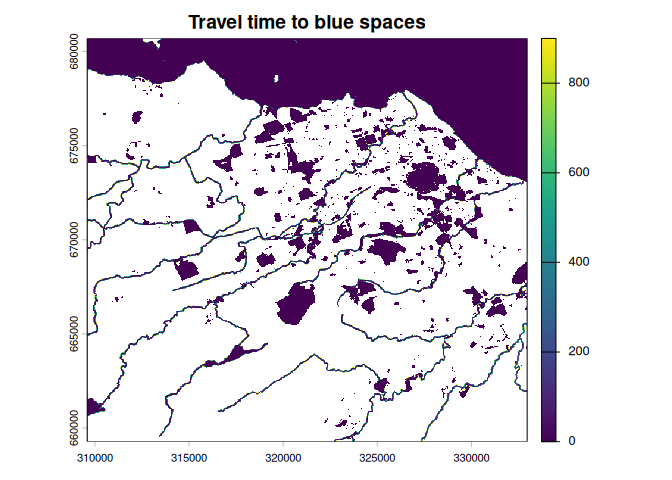
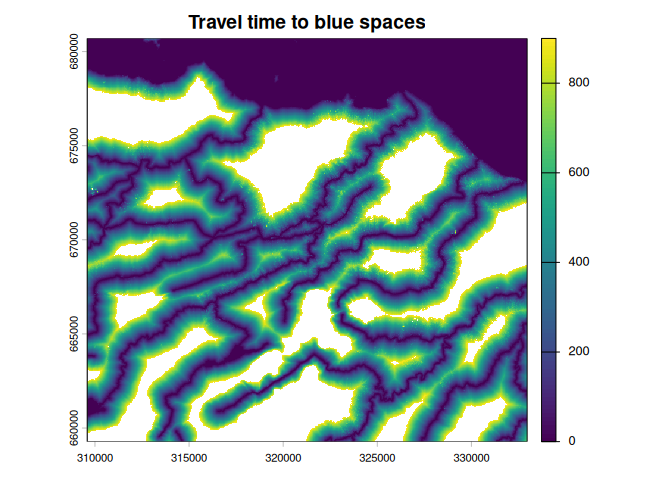
Readme code changes, and adding in amenity functionality and visual

diff --git a/README.md b/README.md
@@ -48,7 +48,7 @@ template <- rast(edinburgh, res = 15)
 dem <- get_dem(edinburgh, template)
 #> Mosaicing & Projecting
 #> Note: Elevation units are in meters.
-osm <- get_osm(system.file("extdata", "edinburgh.shp", package = "travelgrid"))
+osm <- get_osm(system.file("extdata", "edinburgh.shp", package = "travelgrid"), amenity = c("hospital", "clinic"))
 #> The input place was matched with Scotland.
 #> The chosen file was already detected in the download directory. Skip downloading.
 #> Starting with the vectortranslate operations on the input file!
@@ -86,28 +86,48 @@ osm <- get_osm(system.file("extdata", "edinburgh.shp", package = "travelgrid"))
 #> Dimension:     XY
 #> Bounding box:  xmin: -3.490315 ymin: 55.79268 xmax: -3.055897 ymax: 56.02276
 #> Geodetic CRS:  WGS 84
+#> Starting with the vectortranslate operations on the input file!
+#> 0...10...20...30...40...50...60...70...80...90...100 - done.
+#> Finished the vectortranslate operations on the input file!
+#> Reading query `SELECT *
+#>        FROM points
+#>        WHERE other_tags LIKE '%"amenity"=>"hospital"%' OR other_tags LIKE '%"amenity"=>"clinic"%''
+#> from data source `/home/chris/.local/share/R/osmextract/geofabrik_scotland-latest.gpkg' 
+#>   using driver `GPKG'
+#> Simple feature collection with 52 features and 10 fields
+#> Geometry type: POINT
+#> Dimension:     XY
+#> Bounding box:  xmin: -3.319955 ymin: 55.89321 xmax: -3.110969 ymax: 55.98041
+#> Geodetic CRS:  WGS 84
 roads <- osm$network
 buildings <- osm$buildings
+health <- osm$amenity
 ```
 
 ``` r
 plot(dem, main = "Elevation")
-plot(edinburgh, col = NA, border = "red", add = TRUE)
 ```
 
 <img src="man/figures/README-sourcedataplot-1.png" alt="" width="100%" />
 
 ``` r
-plot(roads, main = "Roads")
+plot(edinburgh, col = NA, border = "orange")
 ```
 
 <img src="man/figures/README-sourcedataplot-2.png" alt="" width="100%" />
 
 ``` r
-plot(buildings, main = "Buildings")
+plot(roads, main = "Roads")
 ```
 
 <img src="man/figures/README-sourcedataplot-3.png" alt="" width="100%" />
+
+``` r
+plot(buildings, main = "Buildings")
+plot(health,col = "pink", add = TRUE)
+```
+
+<img src="man/figures/README-sourcedataplot-4.png" alt="" width="100%" />
 
 ## Built environment
 
@@ -154,8 +174,10 @@ it is 2.5km. The landscape is divided into regular squares of
 2.5km<sup>2</sup>, each given a unique *id*.
 
 ``` r
+wd <- tempdir()
 gridsize <- 5000
 grid <- make_grid(edinburgh, gridsize)
+writeVector(grid, filename = paste0(wd, "/grid.shp"), overwrite = TRUE)
 plot(grid, main = "Computation grid")
 plot(edinburgh, add= TRUE)
 ```
@@ -185,6 +207,8 @@ bluespace <- get_target_multisource(bluespace_sources, template)
 greenspace_source <- vect("./inst/extdata/greenspace.shp") # gets os greenspace data
 greenspace <- get_target_onesource(greenspace_source, template)
 
+amenity <- get_target_amenity(osm, template)
+
 plot(bluespace, main = "Blue space")
 ```
 
@@ -206,10 +230,8 @@ adjusted based on the built environment.
 
 ``` r
 
-wd <- tempdir()
-writeVector(grid, paste0(wd, "/grid.shp"), overwrite = TRUE)
-writeRaster(built_environment, paste0(wd, "/be.tif"), overwrite = TRUE)
-writeRaster(dem, paste0(wd, "/dem.tif"), overwrite = TRUE)
+writeRaster(built_environment, filename = paste0(wd, "/be.tif"), overwrite = TRUE)
+writeRaster(dem, filename = paste0(wd, "/dem.tif"), overwrite = TRUE)
 
 friction_grid <- lapply(FUN = get_friction,
                         X = 1:nrow(grid),
@@ -249,36 +271,45 @@ where targets are sparse, and precision for long travel times is
 important, users should define a larger grid size.
 
 ``` r
-
+wd <- tempdir()
+writeRaster(friction_with_buildings, file.path(wd, "frbu.tif"), overwrite = TRUE)
 writeRaster(bluespace, file.path(wd, "bs.tif"), overwrite = TRUE)
-writeRaster(greenspace, file.path(wd, "gs.tif"), overwrite = TRUE)
-writeRaster(friction_with_buildings, file.path(wd, "fb.tif"), overwrite = TRUE)
-list.files(wd)
-#>  [1] "be.tif"                "bs.tif"                "dem.tif"              
-#>  [4] "fb.tif"                "file1c0d911bc7579.tif" "file1c0d913abc43f.tif"
-#>  [7] "file1c0d91cc73b5.tif"  "file1c0d9390529f5.tif" "file1c0d94218c664.tif"
-#> [10] "file1c0d943199fd.tif"  "file1c0d946bf3a1d.tif" "file1c0d957c50ab8.tif"
-#> [13] "file1c0d95dc5dfa7.tif" "file1c0d9676e0a54.tif" "file1c0d96cad028e.tif"
-#> [16] "friction.tif"          "frictiontiles"         "frictiontiles_built"  
-#> [19] "grid.cpg"              "grid.dbf"              "grid.prj"             
-#> [22] "grid.shp"              "grid.shx"              "gs.tif"
 bluespace_travel_grid <- get_travel_time(
   target_file = file.path(wd, "bs.tif"), 
-  friction_file =  file.path(wd, "fb.tif"))
-greenspace_travel_grid <- get_travel_time(
-  target_file = file.path(wd, "gs.tif"), 
-  friction_file = file.path(wd, "fb.tif"))
-
+  friction_file =  file.path(wd, "frbu.tif"),
+  return_rast = TRUE)
 plot(bluespace_travel_grid, range = c(0,900), main = "Travel time to blue spaces")
 ```
 
 <img src="man/figures/README-travel-1.png" alt="" width="100%" />
 
 ``` r
+writeRaster(greenspace, file.path(wd, "gs.tif"), overwrite = TRUE)
+writeRaster(friction_with_buildings, file.path(wd, "frbu.tif"), overwrite = TRUE)
+greenspace_travel_grid <- get_travel_time(
+  target_file = file.path(wd, "gs.tif"), 
+  friction_file = file.path(wd, "frbu.tif"),
+  return_rast = TRUE)
 plot(greenspace_travel_grid, range = c(0,900), main = "Travel time to green spaces")
 ```
 
 <img src="man/figures/README-travel-2.png" alt="" width="100%" />
+
+``` r
+
+writeRaster(amenity, filename = file.path(wd, "am.tif"), overwrite = TRUE)
+writeRaster(friction_with_buildings, file.path(wd, "frbu.tif"), overwrite = TRUE)
+
+amenity_travel_grid <- get_travel_time(
+  target_file = file.path(wd, "am.tif"),
+  friction_file = file.path(wd, "frbu.tif"),
+  return_rast = TRUE
+)
+
+plot(amenity_travel_grid, range = c(0,1800), main = "Travel time to hospital or health centre")
+```
+
+<img src="man/figures/README-travel-3.png" alt="" width="100%" />
 
 ## Usability
 
